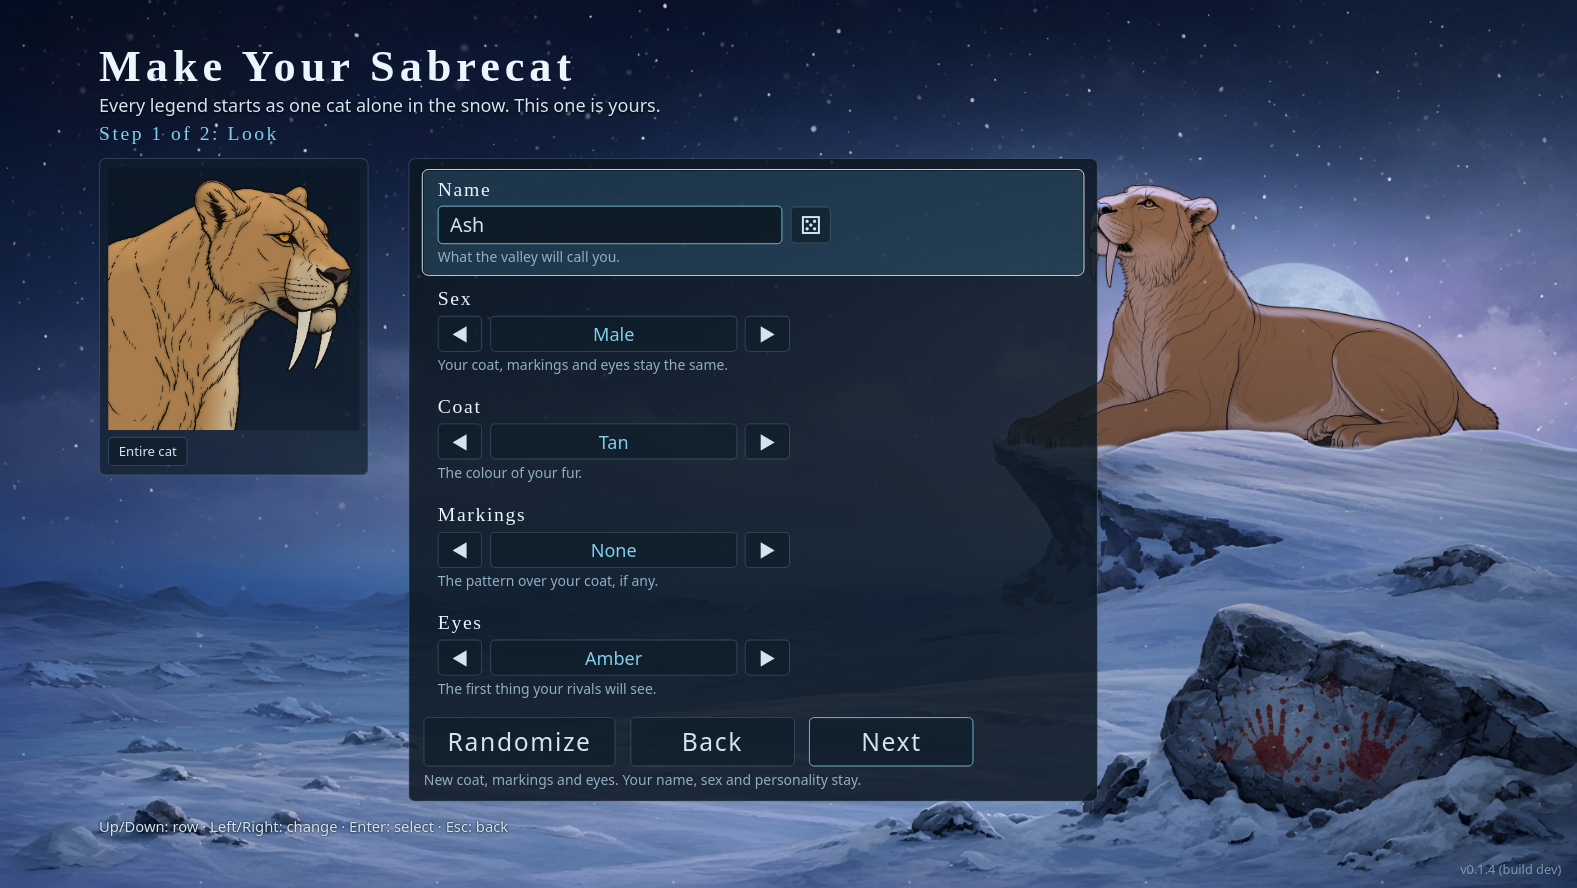
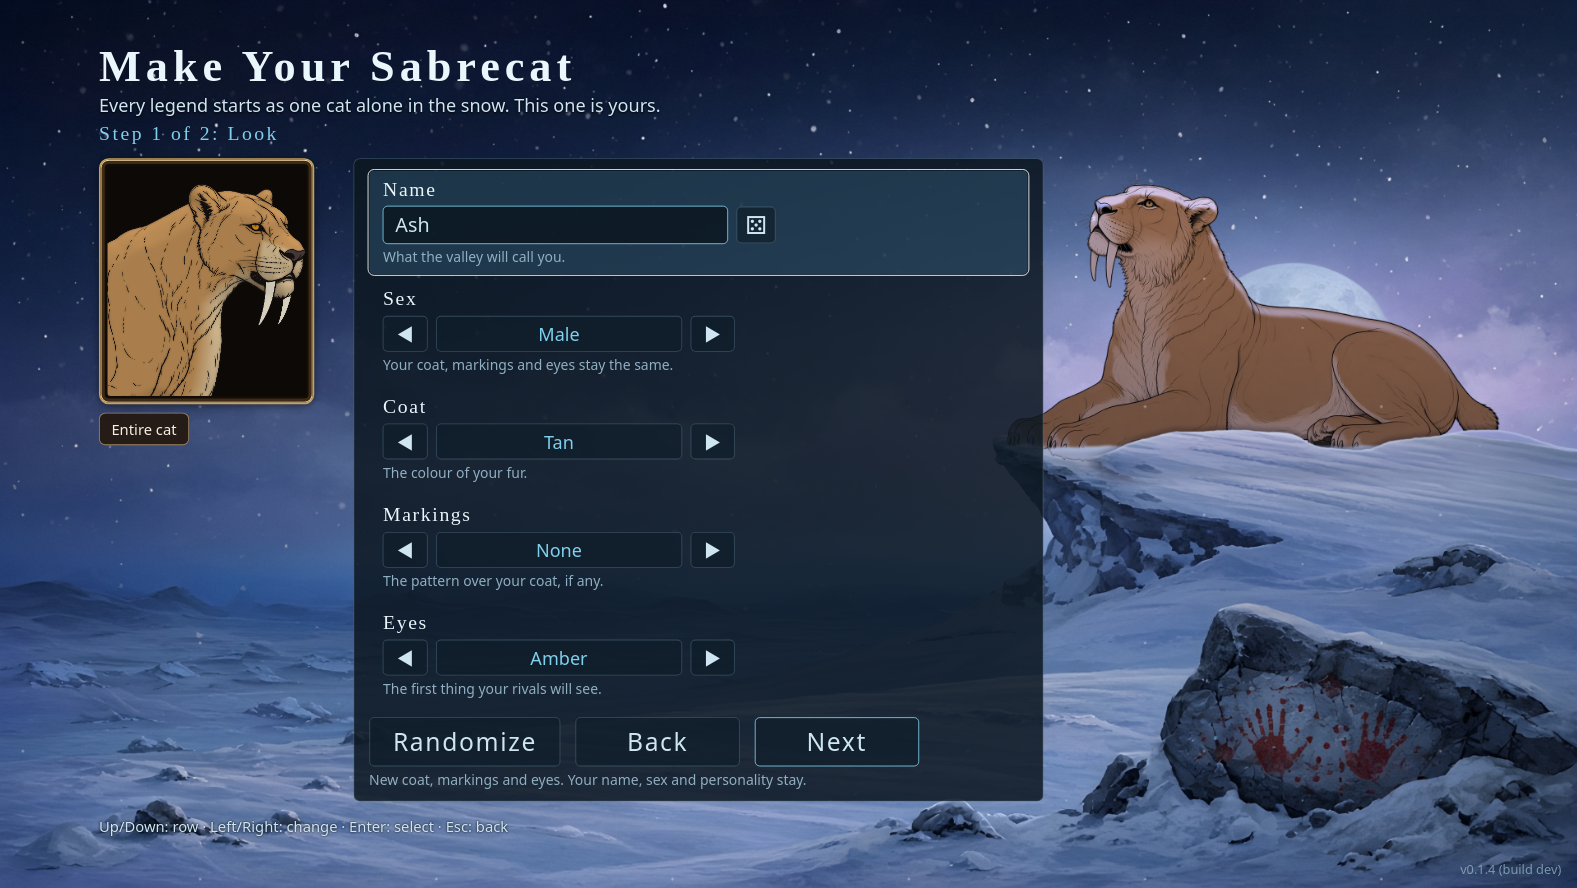
Frame head portraits and warm the meeting and home panels.
Heads sit in a brass frame with a dark mat in the header, creator, meetings, and met-cat list. The meeting card, needs, nav, and full-cat viewer use the same dark gold treatment. The crop leaves the eyes and fangs inside the frame.

diff --git a/src/renderer/styles/menu.css b/src/renderer/styles/menu.css
@@ -91,9 +91,14 @@ button.primary { border-color: var(--accent); }
 .creator-sub { font-size: 22px; margin-bottom: 6px; color: var(--ice); text-shadow: 0 1px 3px #000; }
 .creator-step { font-family: var(--font-title); font-size: 24px; letter-spacing: 3px; color: var(--accent); margin: 0 0 16px; }
 .creator-body { display: flex; gap: 48px; align-items: flex-start; }
-.creator-preview { flex: 0 0 auto; background: var(--panel); border: 1px solid var(--panel-border); border-radius: 8px; padding: 10px; }
-#creator-canvas { display: block; width: auto; height: 320px; max-width: 768px; background: rgba(8, 16, 24, .35); }
-.portrait-expand { min-height: 36px; font-size: 16px; padding: 4px 12px; margin-top: 8px; }
+.creator-preview { flex: 0 0 auto; display: flex; flex-direction: column; align-items: flex-start; gap: 10px; }
+.portrait-frame { display: inline-flex; padding: 8px; background: #120c09; border-radius: 12px; border: 3px solid #c6a15a; box-shadow: inset 0 0 0 1px #f3ddb0, inset 0 0 0 5px #3d2914, 0 2px 10px rgba(0, 0, 0, .45); line-height: 0; }
+.portrait-frame canvas { display: block; width: auto; height: var(--frame-h, 160px); max-width: 100%; background: #0c0907; border-radius: 4px; }
+.frame-sm { --frame-h: 64px; padding: 5px; border-width: 2px; box-shadow: inset 0 0 0 1px #f3ddb0, inset 0 0 0 4px #3d2914; }
+.frame-md { --frame-h: 176px; }
+.frame-lg { --frame-h: 280px; }
+.portrait-expand { min-height: 40px; font-size: 18px; padding: 6px 14px; margin: 0; background: rgba(36, 24, 14, .9); border: 1px solid rgba(212, 176, 122, .7); color: #f6efe2; border-radius: 8px; }
+.portrait-expand:hover, .portrait-expand.focused, .portrait-expand:focus-visible { background: rgba(110, 72, 32, .95); border-color: #e6c98a; outline: 2px solid #fff; outline-offset: 2px; }
 .creator-side { width: 840px; background: rgba(13, 24, 34, 0.86); border: 1px solid var(--panel-border); border-radius: 8px; padding: 14px 18px; }
 .creator-panel { display: flex; flex-direction: column; gap: 8px; }
 .crow { padding: 8px 16px; border: 1px solid transparent; border-radius: 6px; }
@@ -138,45 +143,45 @@ button.primary { border-color: var(--accent); }
 .hotspot-wild { left: 56%; top: 74%; width: 18%; height: 16%; align-items: center; }
 .home-top { position: absolute; z-index: 4; left: 210px; right: 0; top: 0; height: 88px; display: flex; align-items: center; gap: 22px; padding: 8px 18px; background: linear-gradient(180deg, rgba(18, 12, 8, .88), rgba(18, 12, 8, .55)); border-bottom: 1px solid rgba(212, 176, 122, .35); pointer-events: none; }
 .home-top > * { pointer-events: auto; }
-.home-brand { display: flex; gap: 10px; align-items: center; min-width: 0; }
-.home-head { height: 68px; width: auto; background: transparent; }
-.home-player-line { display: flex; align-items: center; gap: 8px; margin: 0; }
-.home-brand .portrait-expand { margin: 0; min-height: 28px; font-size: 14px; padding: 2px 8px; }
-.cat-mini, .event-portrait { width: auto; background: transparent; }
-.event-portrait { height: 180px; }
-.event-who { display: flex; flex-direction: column; align-items: center; gap: 6px; }
-.event-affinity { margin: 0; color: #d4b07a; font-size: 18px; }
-.met-cat { display: flex; align-items: center; gap: 8px; margin: 0 0 8px; }
-.cat-mini { height: 72px; }
+.home-brand { display: flex; gap: 12px; align-items: center; min-width: 0; }
+.home-player-line { display: flex; align-items: center; gap: 8px; margin: 2px 0 0; }
+.event-who { display: flex; flex-direction: column; align-items: center; gap: 10px; }
+.event-affinity { margin: 0; color: #e6c98a; font-size: 20px; letter-spacing: .04em; }
+.met-cat { display: flex; align-items: center; gap: 10px; margin: 0 0 10px; list-style: none; }
+.met-name { font-size: 18px; color: #f6efe2; }
+.home-cats { list-style: none; padding-left: 0; }
 .cat-viewer { position: fixed; inset: 0; z-index: 20; display: flex; align-items: center; justify-content: center; }
 .cat-viewer[hidden] { display: none; }
-.cat-viewer-backdrop { position: absolute; inset: 0; background: rgba(6, 8, 12, .72); border: 0; min-height: 0; }
-.cat-viewer-box { position: relative; z-index: 1; display: flex; flex-direction: column; align-items: center; gap: 10px; padding: 22px; background: #13202b; border: 1px solid rgba(212, 176, 122, .7); border-radius: 12px; max-width: 92vw; }
-#cat-viewer-canvas { width: auto; height: auto; max-width: min(1000px, 86vw); max-height: 68vh; }
-#cat-viewer-title { font-size: 36px; margin: 0; }
-#cat-viewer-name { margin: 0; font-size: 22px; }
+.cat-viewer-backdrop { position: absolute; inset: 0; background: rgba(8, 5, 3, .72); border: 0; min-height: 0; }
+.cat-viewer-box { position: relative; z-index: 1; display: flex; flex-direction: column; align-items: center; gap: 12px; padding: 22px 26px 18px; background: linear-gradient(180deg, #2a1c12, #140e0a); border: 2px solid #c6a15a; box-shadow: inset 0 0 0 1px #f3ddb0, 0 16px 40px rgba(0, 0, 0, .5); border-radius: 14px; max-width: 92vw; color: #f6efe2; }
+#cat-viewer-canvas { width: auto; height: auto; max-width: min(920px, 78vw); max-height: 62vh; background: #0c0907; border-radius: 8px; }
+#cat-viewer-title { font-size: 32px; margin: 0; letter-spacing: 2px; color: #f6efe2; }
+#cat-viewer-name { margin: 0; font-size: 22px; color: #e7d3b4; }
 .home-kicker { margin: 0; font-size: 13px; letter-spacing: 3px; text-transform: uppercase; color: #d4b07a; }
 .home-pride-name { margin: 0; font-family: var(--font-title); font-size: 22px; letter-spacing: 0.5px; color: #f6efe2; font-weight: 600; white-space: nowrap; }
 .home-player-name { margin: 0; font-size: 18px; color: #e7d3b4; }
 .home-status { flex: 1; display: flex; align-items: center; gap: 18px; min-width: 0; }
 .hud-day { font-size: 22px; color: #f6efe2; min-width: 240px; }
 .hud-needs { display: grid; grid-template-columns: 240px 240px; gap: 4px 18px; }
-.need { display: grid; grid-template-columns: 78px 1fr 36px; align-items: center; gap: 8px; font-size: 16px; }
-.need-bar { height: 10px; background: rgba(255,255,255,.16); border-radius: 6px; overflow: hidden; }
-.need-bar i { display: block; height: 100%; background: #e2c48a; }
+.need { display: grid; grid-template-columns: 78px 1fr 36px; align-items: center; gap: 8px; font-size: 17px; color: #f6efe2; }
+.need-bar { height: 12px; background: rgba(12, 8, 6, .65); border: 1px solid rgba(212, 176, 122, .45); border-radius: 7px; overflow: hidden; }
+.need-bar i { display: block; height: 100%; background: linear-gradient(180deg, #f0d7a2, #c6964a); }
 .need.state-low .need-bar i { background: #e6c46a; } .need.state-critical .need-bar i, .need.state-empty .need-bar i { background: var(--danger); }
 .need-value { text-align: right; color: #f3e6d0; }
 .hud-injuries { display: flex; flex-direction: column; gap: 4px; }
 .chip { font-size: 16px; padding: 3px 10px; border-radius: 12px; border: 1px solid var(--danger); color: #ffd0c6; white-space: nowrap; }
 .chip-serious { background: rgba(228,138,122,.18); }
 .home-tools { display: flex; gap: 10px; }
-.home-tools button { min-height: 44px; font-size: 18px; padding: 6px 16px; background: rgba(28, 18, 12, .78); border-color: rgba(212, 176, 122, .55); color: #f6efe2; }
+.home-tools button { min-height: 44px; padding: 6px 16px; text-align: center; }
 .home-nav { position: absolute; z-index: 4; left: 0; top: 0; bottom: 0; width: 210px; display: flex; flex-direction: column; gap: 4px; padding: 18px 12px; background: linear-gradient(180deg, rgba(22, 14, 8, .92), rgba(12, 8, 6, .78)); border-right: 1px solid rgba(212, 176, 122, .4); }
-.home-nav button { display: flex; flex-direction: column; align-items: flex-start; gap: 0; min-height: 48px; padding: 6px 12px; text-align: left; background: transparent; border-color: transparent; color: #f6efe2; font-size: 20px; }
-.home-nav button[aria-current="page"] { border-color: rgba(212, 176, 122, .85); background: rgba(70, 46, 26, .55); }
-.home-nav .nav-state { font-size: 12px; letter-spacing: 1px; text-transform: uppercase; color: #c4b29a; }
+.home-nav button { display: flex; flex-direction: column; align-items: flex-start; gap: 0; min-height: 46px; padding: 6px 12px; text-align: left; background: transparent; border-color: transparent; color: #f6efe2; font-size: 20px; border-radius: 8px; }
+.screen[data-screen="game"] .home-nav button:hover,
+.screen[data-screen="game"] .home-nav button.focused,
+.screen[data-screen="game"] .home-nav button:focus-visible { background: rgba(90, 58, 28, .55); border-color: rgba(212, 176, 122, .65); color: #fff8ea; outline: 2px solid #fff; outline-offset: 2px; }
+.home-nav button[aria-current="page"] { border-color: #e6c98a; background: rgba(110, 72, 32, .72); color: #fff6e4; }
+.home-nav .nav-state { font-size: 13px; letter-spacing: 1px; text-transform: uppercase; color: #d7c4a4; }
 .home-nav button.is-unavailable { color: #cbbba6; }
-.home-dock { position: absolute; z-index: 3; top: 112px; right: 16px; width: 440px; max-height: calc(100% - 136px); overflow: auto; padding: 14px 16px 16px; background: rgba(16, 12, 10, .78); border: 1px solid rgba(212, 176, 122, .5); border-radius: 10px; }
+.home-dock { position: absolute; z-index: 3; top: 104px; right: 16px; width: 420px; max-height: calc(100% - 124px); overflow: auto; padding: 14px 16px 16px; background: rgba(20, 13, 9, .82); border: 1px solid rgba(212, 176, 122, .65); box-shadow: inset 0 0 0 1px rgba(243, 221, 176, .15); border-radius: 12px; }
 .home-panel-title { font-size: 28px; letter-spacing: 2px; margin: 0 0 8px; color: #f6efe2; }
 .home-facts { display: grid; grid-template-columns: 120px 1fr; gap: 6px 12px; margin: 0 0 12px; font-size: 18px; }
 .home-facts dt { color: #d4b07a; } .home-facts dd { margin: 0; }
@@ -192,7 +197,13 @@ button.primary { border-color: var(--accent); }
 .game-actions { display: flex; flex-direction: column; gap: 12px; }
 .action-group { display: flex; flex-direction: column; gap: 6px; }
 .action-group h3 { margin: 0; font-size: 14px; letter-spacing: 3px; text-transform: uppercase; color: #d4b07a; }
-.action-group button, .game-actions > button { min-height: 42px; font-size: 18px; padding: 6px 12px; text-align: left; background: rgba(40, 28, 18, .72); border-color: rgba(212, 176, 122, .35); color: #f6efe2; }
+.action-group button, .game-actions > button, .home-tools button { min-height: 42px; font-size: 18px; padding: 6px 12px; text-align: left; background: rgba(40, 28, 18, .8); border: 1px solid rgba(212, 176, 122, .45); color: #f6efe2; border-radius: 8px; }
+.screen[data-screen="game"] .action-group button:hover,
+.screen[data-screen="game"] .action-group button.focused,
+.screen[data-screen="game"] .action-group button:focus-visible,
+.screen[data-screen="game"] .home-tools button:hover,
+.screen[data-screen="game"] .home-tools button.focused,
+.screen[data-screen="game"] .home-tools button:focus-visible { background: rgba(110, 72, 32, .92); border-color: #e6c98a; color: #fff8ea; outline: 2px solid #fff; outline-offset: 2px; }
 .action-group.is-target { outline: 1px solid rgba(212, 176, 122, .85); border-radius: 8px; padding: 6px; }
 .forced-note, .blocked-note { font-size: 18px; color: #e6c46a; margin: 0; }
 .game-report { margin-top: 12px; font-size: 17px; max-height: 180px; overflow: auto; }
@@ -201,12 +212,14 @@ button.primary { border-color: var(--accent); }
 .game-report ul { margin: 0; padding-left: 18px; line-height: 1.45; }
 .game-event { position: absolute; inset: 0; z-index: 6; display: flex; align-items: center; justify-content: center; }
 .game-event[hidden] { display: none; }
-.event-card { width: 1000px; background: #132331; border: 1px solid var(--accent); border-radius: 10px; padding: 30px 44px; display: flex; flex-direction: column; align-items: center; gap: 12px; }
-.event-cat { font-family: var(--font-title); font-size: 30px; color: var(--frost); }
-.event-title { font-size: 40px; letter-spacing: 3px; margin: 0; }
-.event-text { font-size: 26px; line-height: 1.45; text-align: center; margin: 0 0 10px; }
-.event-choices { display: flex; flex-direction: column; gap: 10px; width: 100%; }
-.event-choices button, .event-card > button { min-height: 54px; font-size: 24px; padding: 8px 24px; }
+.event-card { width: min(820px, calc(100% - 280px)); max-height: calc(100% - 48px); overflow: auto; background: linear-gradient(180deg, rgba(42, 28, 18, .97), rgba(16, 11, 8, .97)); border: 2px solid #c6a15a; box-shadow: inset 0 0 0 1px #f3ddb0, 0 18px 48px rgba(0, 0, 0, .5); border-radius: 14px; padding: 22px 32px 24px; display: flex; flex-direction: column; align-items: center; gap: 10px; color: #f6efe2; }
+.event-cat { font-family: var(--font-title); font-size: 28px; color: #f6efe2; letter-spacing: 1px; }
+.event-title { font-size: 34px; letter-spacing: 2px; margin: 4px 0 0; color: #f8efe0; }
+.event-text { font-size: 20px; line-height: 1.45; text-align: center; margin: 0; max-width: 640px; color: #f0e2cc; }
+.event-choices { display: flex; flex-direction: column; gap: 8px; width: 100%; margin-top: 6px; }
+.event-choices button, .event-card > button { min-height: 48px; font-size: 20px; padding: 8px 18px; background: rgba(48, 32, 18, .9); border: 1px solid rgba(212, 176, 122, .5); color: #f6efe2; border-radius: 8px; }
+.event-choices button:hover, .event-choices button.focused, .event-choices button:focus-visible,
+.event-card > button:hover, .event-card > button.focused, .event-card > button:focus-visible { background: rgba(110, 72, 32, .95); border-color: #e6c98a; outline: 2px solid #fff; outline-offset: 2px; }
 .screen[data-screen="summary"] { padding: 80px 160px; }
 .summary-cause { font-size: 28px; color: var(--danger); }
 .summary-stats { display: grid; grid-template-columns: 300px 1fr; gap: 12px 24px; font-size: 26px; }

diff --git a/src/renderer/js/game-screen.js b/src/renderer/js/game-screen.js
@@ -15,6 +15,7 @@
     const W = E.W;
     let s = null; let run = null; let busy = false; let lastSaved = null; let view = 'home';
     const el = (tag, cls, text) => { const x = document.createElement(tag); if (cls) x.className = cls; if (text !== undefined) x.textContent = text; return x; };
+    const framed = (canvas, size) => { const f = el('div', 'portrait-frame frame-' + size); f.append(canvas); return f; };
     const btn = (label, data, opts = {}) => { const b = el('button', opts.cls || '', label); Object.assign(b.dataset, data); if (opts.disabled) b.disabled = true; if (opts.title) b.title = opts.title; return b; };
     const regionName = (id) => (W.region(id) ? W.region(id).name : id);
     const factionName = (id) => t(`game.faction.${id}`);
@@ -142,7 +143,7 @@
           const li = el('li', 'met-cat');
           const mini = el('canvas', 'cat-mini'); mini.id = 'met-' + n.id;
           ctx.portrait({ look: n.look, sex: n.sex, name: n.name, portraitId: n.portraitId }, mini, { frame: 'head' }).catch(() => {});
-          li.append(mini, el('span', '', n.name + ' · ' + factionName(n.faction) + ' · ' + t('game.affinity', { affinity: n.affinity })));
+          li.append(framed(mini, 'sm'), el('span', 'met-name', n.name + ' · ' + factionName(n.faction) + ' · ' + t('game.affinity', { affinity: n.affinity })));
           li.append(btn(t('portrait.expand'), { g: 'expandCat', source: mini.id, name: n.name }, { cls: 'portrait-expand' }));
           ul.append(li);
         }
@@ -218,7 +219,7 @@
         const who = el('div', 'event-who');
         const cv = el('canvas', 'event-portrait'); cv.id = 'event-head';
         ctx.portrait({ look: npc.look, sex: npc.sex, name: npc.name, portraitId: npc.portraitId }, cv, { frame: 'head' }).catch(() => {});
-        who.append(cv, btn(t('portrait.expand'), { g: 'expandCat', source: 'event-head', name: npc.name }, { cls: 'portrait-expand' }));
+        who.append(framed(cv, 'md'), btn(t('portrait.expand'), { g: 'expandCat', source: 'event-head', name: npc.name }, { cls: 'portrait-expand' }));
         card.append(who, el('div', 'event-cat', npc.name), el('p', 'event-affinity', t('game.affinity', { affinity: npc.affinity })));
       }
       card.append(el('h2', 'event-title', e.title));

diff --git a/src/renderer/index.html b/src/renderer/index.html
@@ -47,7 +47,7 @@
     <p class="creator-step" id="creator-step"></p>
     <div class="creator-body">
       <div class="creator-preview">
-        <canvas id="creator-canvas" role="img" width="1152" height="864"></canvas>
+        <div class="portrait-frame frame-lg"><canvas id="creator-canvas" role="img" width="1152" height="864"></canvas></div>
         <button type="button" id="creator-expand" class="portrait-expand" data-g="expandCat" data-source="creator-canvas" data-t="portrait.expand"></button>
       </div>
       <div class="creator-side">
@@ -78,7 +78,7 @@
       <button type="button" id="hotspot-wild" class="hotspot hotspot-wild" data-g="wild"><span data-t="home.wilderness"></span></button>
       <header class="home-top">
         <div class="home-brand">
-          <canvas id="home-head" class="home-head" width="64" height="64"></canvas>
+          <div class="portrait-frame frame-sm"><canvas id="home-head" class="home-head" width="64" height="64"></canvas></div>
           <div>
             <p class="home-kicker" data-t="home.nav.pride"></p>
             <h1 id="home-pride-name" class="home-pride-name"></h1>

diff --git a/src/renderer/js/portrait-view.js b/src/renderer/js/portrait-view.js
@@ -10,7 +10,7 @@
 })(typeof self !== 'undefined' ? self : this, function () {
   const FALLBACK = {
     sharedPose: 'portrait-female',
-    defaultHead: { x: 0.66, y: 0.02, w: 0.33, h: 0.46 },
+    defaultHead: { x: 0.63, y: 0.0, w: 0.35, h: 0.54 },
     portraits: [],
   };
 
